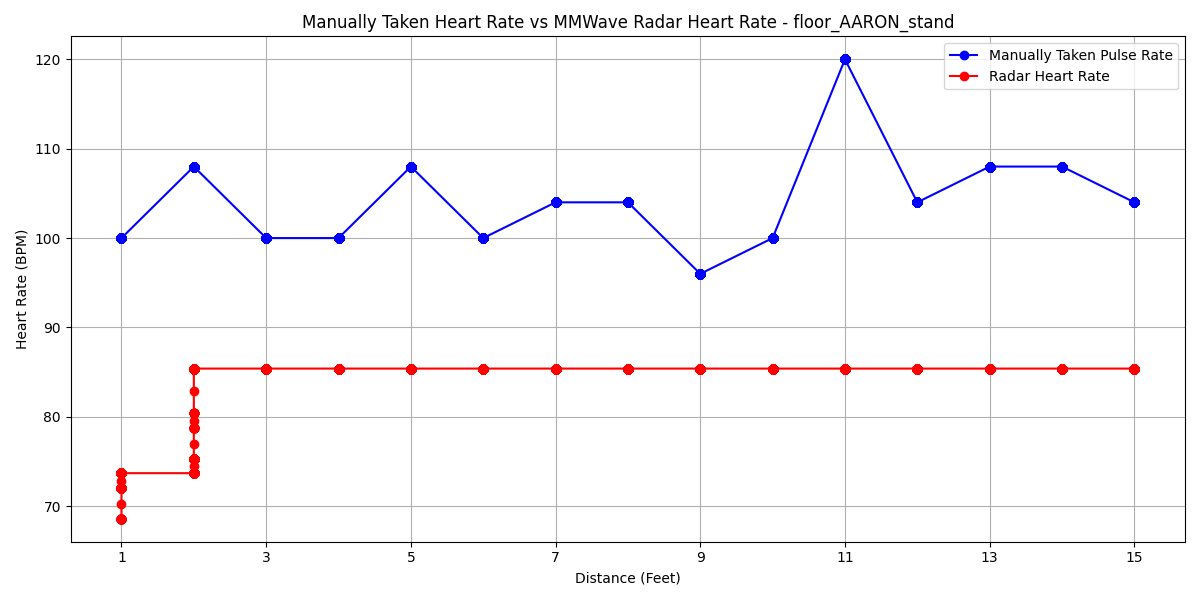
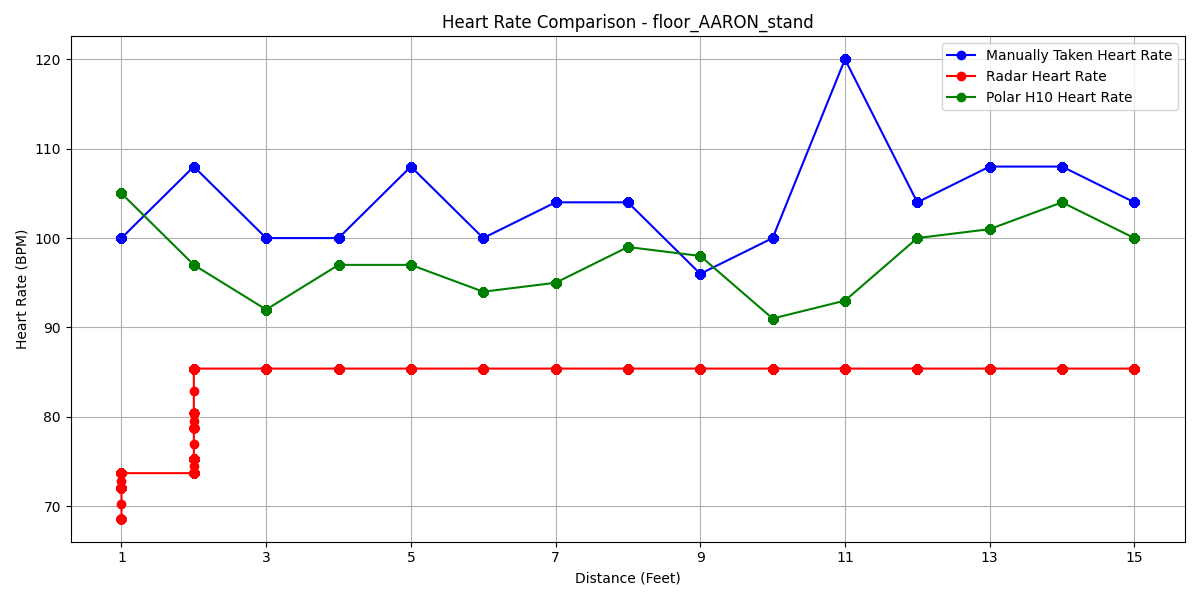
data

diff --git a/figure_scripts/pulse_final.py b/figure_scripts/pulse_final.py
@@ -41,7 +41,7 @@ def time_to_seconds(time_str):
         return int(parts[0])
     else:
         raise ValueError(f"Unexpected time format: {time_str}")
-
+    
 def process_csv_file(vitals_file_path, parts_combined, subfolder):
     if vitals_file_path is None or parts_combined is None:
         print(f"Required CSV files not found for {subfolder}.")
@@ -52,23 +52,24 @@ def process_csv_file(vitals_file_path, parts_combined, subfolder):
     print(f"Columns in vitals file: {vitals.columns.tolist()}")
     print(f"First few rows of vitals file:\n{vitals.head()}")
 
-    pulse_data = vitals.copy()
+    vitals_data = vitals.copy()
     
-    pulse_data['Seconds'] = pulse_data['Time for Pulse'].apply(time_to_seconds).astype(float)
+    vitals_data['Seconds'] = vitals_data['Time for Pulse'].apply(time_to_seconds).astype(float)
     parts_combined['Seconds'] = parts_combined['Timestamp'].astype(float)
 
     merged_df = pd.merge_asof(parts_combined.sort_values('Seconds'), 
-                              pulse_data[['Seconds', 'Pulse', 'Marker']].sort_values('Seconds'), 
+                              vitals_data[['Seconds', 'Pulse', 'Heart', 'Marker']].sort_values('Seconds'), 
                               on='Seconds', 
                               direction='nearest')
 
     plt.figure(figsize=(12, 6))
-    plt.plot(merged_df['Marker'], merged_df['Pulse'], 'o-', label='Manually Taken Pulse Rate', color='blue')
+    plt.plot(merged_df['Marker'], merged_df['Pulse'], 'o-', label='Manually Taken Heart Rate', color='blue')
     plt.plot(merged_df['Marker'], merged_df['Heart Rate'], 'o-', label='Radar Heart Rate', color='red')
+    plt.plot(merged_df['Marker'], merged_df['Heart'], 'o-', label='Polar H10 Heart Rate', color='green')
 
     plt.xlabel('Distance (Feet)')
     plt.ylabel('Heart Rate (BPM)')
-    plt.title(f'Manually Taken Heart Rate vs MMWave Radar Heart Rate - {subfolder}')
+    plt.title(f'Heart Rate Comparison - {subfolder}')
     plt.legend()
     plt.grid(True)
 
@@ -80,20 +81,28 @@ def process_csv_file(vitals_file_path, parts_combined, subfolder):
     plt.close()
 
     print(f"\nResults for {subfolder}:")
-    print("Physical Heart Rate Range:", 
+    print("Manually Taken Heart Rate Range:", 
           merged_df['Pulse'].min(), "-", merged_df['Pulse'].max())
-    print("Measured Heart Rate Range:", 
+    print("Radar Heart Rate Range:", 
           merged_df['Heart Rate'].min(), "-", merged_df['Heart Rate'].max())
+    print("Polar H10 Heart Rate Range:", 
+          merged_df['Heart'].min(), "-", merged_df['Heart'].max())
     print("\nFirst few rows of aligned data:")
-    print(merged_df[['Seconds', 'Pulse', 'Heart Rate', 'Marker']].head())
+    print(merged_df[['Seconds', 'Pulse', 'Heart Rate', 'Heart', 'Marker']].head())
 
-    avg_physical = merged_df['Pulse'].mean()
-    avg_measured = merged_df['Heart Rate'].mean()
-    print(f"\nAverage Physical Heart Rate: {avg_physical:.2f} BPM")
-    print(f"Average Measured Heart Rate: {avg_measured:.2f} BPM")
+    avg_manual = merged_df['Pulse'].mean()
+    avg_radar = merged_df['Heart Rate'].mean()
+    avg_polar = merged_df['Heart'].mean()
+    print(f"\nAverage Manually Taken Heart Rate: {avg_manual:.2f} BPM")
+    print(f"Average Radar Heart Rate: {avg_radar:.2f} BPM")
+    print(f"Average Polar H10 Heart Rate: {avg_polar:.2f} BPM")
 
-    correlation = merged_df['Pulse'].corr(merged_df['Heart Rate'])
-    print(f"\nCorrelation between Physical and Measured Heart Rate: {correlation:.2f}")
+    correlation_manual_radar = merged_df['Pulse'].corr(merged_df['Heart Rate'])
+    correlation_manual_polar = merged_df['Pulse'].corr(merged_df['Heart'])
+    correlation_radar_polar = merged_df['Heart Rate'].corr(merged_df['Heart'])
+    print(f"\nCorrelation between Manual and Radar Heart Rate: {correlation_manual_radar:.2f}")
+    print(f"Correlation between Manual and Polar H10 Heart Rate: {correlation_manual_polar:.2f}")
+    print(f"Correlation between Radar and Polar H10 Heart Rate: {correlation_radar_polar:.2f}")
 
 def process_all_groups(root_folder):
     visualizer_data_folder = os.path.join(root_folder, 'visualizer_data')
